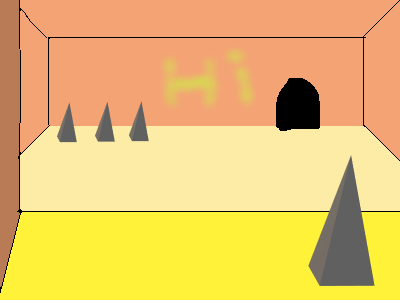
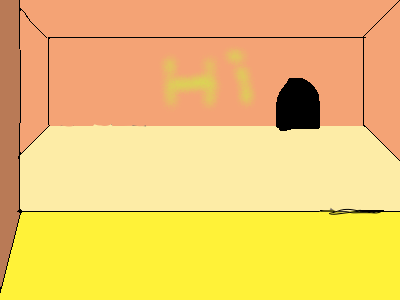
zone effects on worlditems

Changed region(s): [[0.75, 0.51, 0.96, 0.96], [0.24, 0.33, 0.39, 0.48], [0.12, 0.33, 0.21, 0.48]]

diff --git a/src/test-game/game-data.js b/src/test-game/game-data.js
@@ -14,6 +14,7 @@ var sprites = [
   new Sprite ('door', 'door.png', [3,1]),
   new Sprite ('bucket', 'bucket.png', [1,1]),
   new Sprite ('stairs', 'stairs.png', [1,1]),
+  new Sprite ('tube', 'tube.png', [1,1]),
   new Sprite ('fire', 'Fire.png', [4,2]),
 ]
 
@@ -86,6 +87,9 @@ var worldItemModels = {
 	stairs: new WorldItemModel ({   
 		neutral: [ ['stairs',0,0]  ],
 	}),
+	tube: new WorldItemModel ({   
+		neutral: [ ['tube',0,0]  ],
+	}),
 	fire: new WorldItemModel ({
 		burning: [ ['fire',0,0],['fire',1,0],['fire',2,0],['fire',3,0],  ],
 		extinguishing: [ ['fire',0,1],['fire',1,1],['fire',2,1],['fire',3,1],['fire',2,1],['fire',3,1],['fire',2,1],['fire',3,1],  ],
@@ -147,8 +151,10 @@ var makeRooms = function(){ return [
 
 	new Room ('Gallery', 'The Overlook', "testroom3.png", 400,300, {
 		worldItems: [
-			new WorldItem ('path_down','stairs down', [330,87],140,90,'neutral',worldItemModels.stairs,{unclickable:true}),
-			new WorldItem ('path_up','stairs up', [300,170],40,50,'neutral',null),
+			new WorldItem ('path_down','stairs down', [350,87],180,90,'neutral',worldItemModels.stairs,{unclickable:true}),
+			new WorldItem ('gate','dark gate', [300,170],50,50,'neutral',null,{noZoneScaling:true}),
+			new WorldItem ('tube1','tube', [280,20],20,35,'neutral',worldItemModels.tube),
+			new WorldItem ('tube2','tube', [110,100],20,35,'neutral',worldItemModels.tube),
 		],
 		obstacles: [
 			new RectZone(48,175,310,90),

diff --git a/src/components/WorldItem.vue b/src/components/WorldItem.vue
@@ -46,8 +46,8 @@ export default {
 		scale: function() {return this.item.scale},
 		baseHeight: function() {return this.item.baseHeight},
 		baseWidth: function() {return this.item.baseWidth},
-		scaledHeight : function() {return this.scale * this.baseHeight;},
-		scaledWidth : function() {return this.scale * this.baseWidth;},
+		scaledHeight : function() {return this.scale * this.baseHeight*this.zoneEffects.scale();},
+		scaledWidth : function() {return this.scale * this.baseWidth*this.zoneEffects.scale();},
 		frame : function() {
 			var v= this.item.cycles[this.item.status.cycle][this.cycleFrame];
 			return {sprite: v[0], fx:v[1], fy:v[2]}
@@ -70,7 +70,26 @@ export default {
 			transition: 'background-color 1s',
 			borderRadius: '5px',
 			transform: 'translateX(-50%)'
-		}}
+		}},
+		zoneEffects : function() {
+			var result= {
+				filter:"",
+				scale:function(){return 1},
+			};
+			var effectZones = this.$root.rooms[this.$root.roomNumber].effectZones;
+			for (var i=0; i<effectZones.length; i++) {
+				if (effectZones[i].zone.containsPoint(this)) {
+					if (effectZones[i].effect.filter) {
+						result.filter += effectZones[i].effect.filter + ' ';
+					}
+					if (effectZones[i].effect.scale && !this.item.noZoneScaling) {
+						result.scale = effectZones[i].effect.scale.bind(this);
+					}
+				}
+			}
+			return result;
+		},
+
 	},
 	methods : {
 		clickHandler : function (event) {

diff --git a/src/modules/constructors.js b/src/modules/constructors.js
@@ -64,8 +64,8 @@ function WorldItem (id, name, coords ,width,height,initialCycle, model,config={}
 	this.x = coords[0] || 0;
 	this.y = coords[1] || 0;
 	this.scale = config.scale || 1;
-
 	this.unclickable = config.unclickable || false;
+	this.noZoneScaling = config.noZoneScaling || false;
 
 	this.walkOffsetX =  coords[2] || 0;
 	this.walkOffsetY =  coords[3] || 0;

diff --git a/src/components/Character.vue b/src/components/Character.vue
@@ -123,7 +123,7 @@ export default {
 					if (effectZones[i].effect.filter) {
 						result.filter += effectZones[i].effect.filter + ' ';
 					}
-					if (effectZones[i].effect.scale) {
+					if (effectZones[i].effect.scale && !this.char.noZoneScaling) {
 						result.scale = effectZones[i].effect.scale.bind(this);
 					}
 				}
